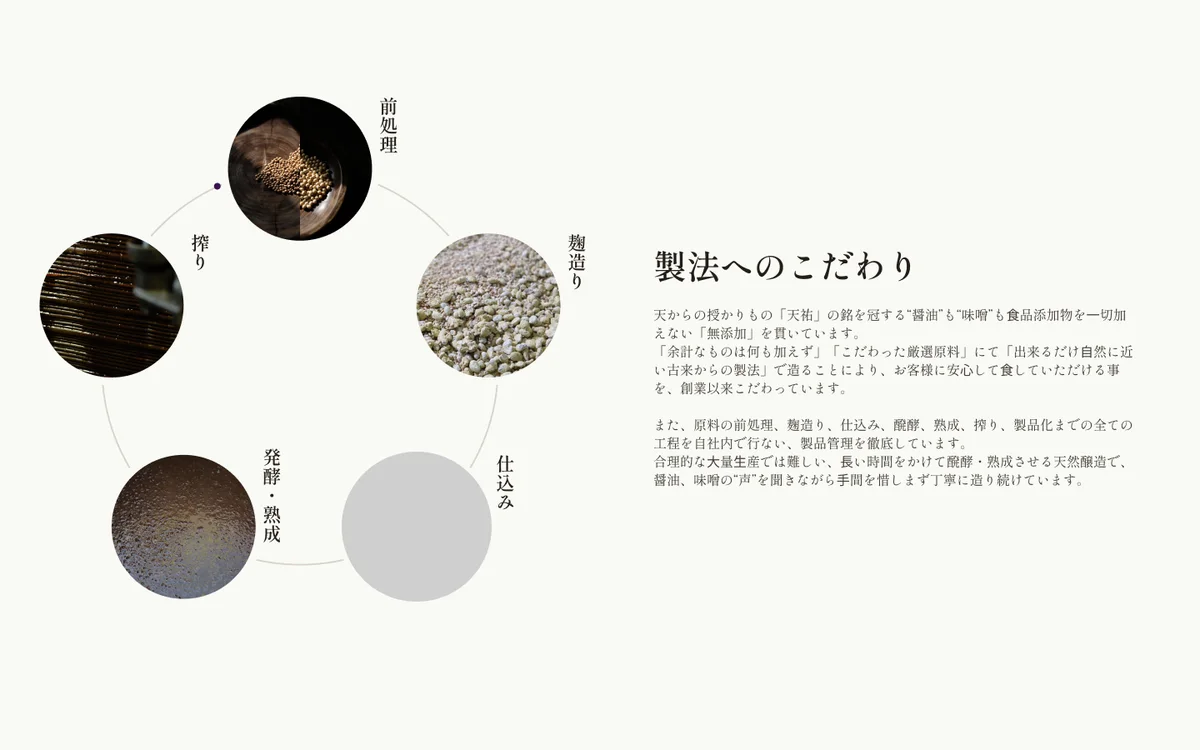
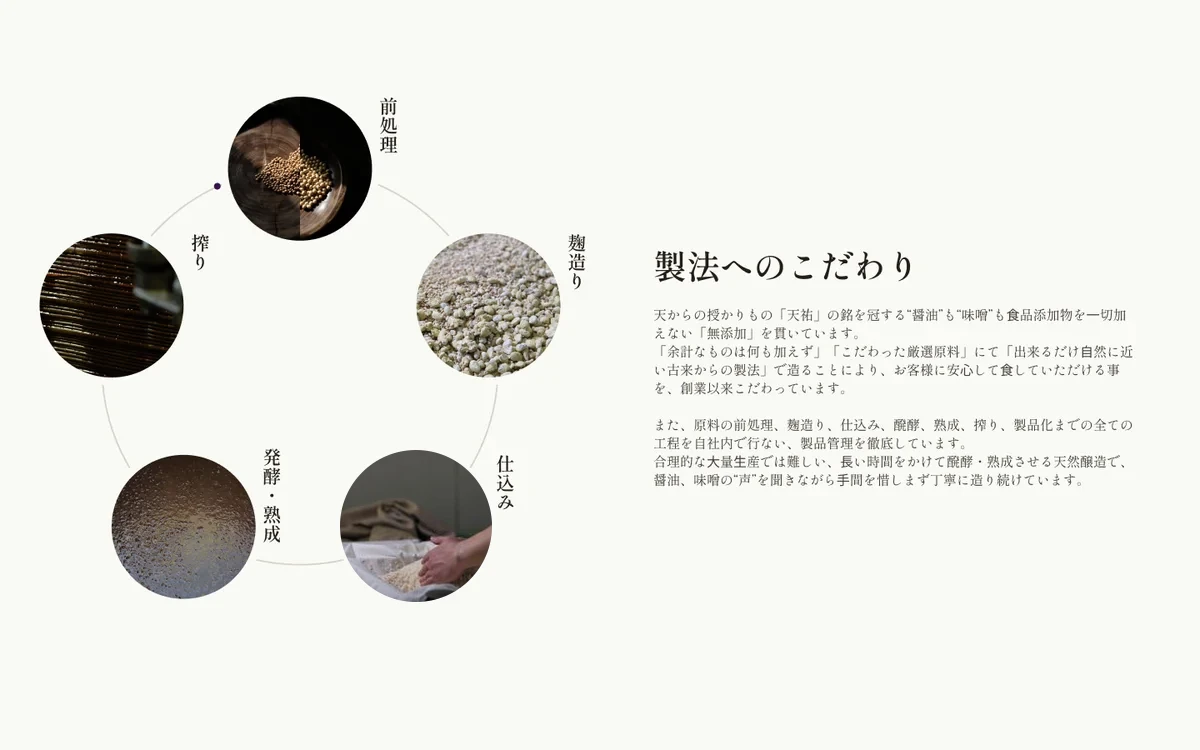
feat(nakahatsu-sy): replace gray placeholders with person-free client photos, max-width figure per Figma

Changed region(s): [[0.2775, 0.5827, 0.4317, 0.828]]

diff --git a/src/components/work/DesignSystemFigure.tsx b/src/components/work/DesignSystemFigure.tsx
@@ -73,9 +73,13 @@ export default function DesignSystemFigure({ f, label }: { f: DesignSystemData; 
                 </li>
               ))}
             </ul>
-            <div className="flex flex-col items-center gap-1.5" aria-hidden="true">
-              <span className="block h-[102px] w-32 border border-dashed border-ink/60 bg-white" />
-              <span className="block h-2 w-32 border-x border-b border-ink/60" />
+            {/* 本文の最大幅の図（Figma 586:861 の型）: 画面（1440x1024 の比率）を実線の枠で、内側の 1280 幅を点線のガイドで示し、
+                ガイドの幅に合わせた目盛りの下に「1280」。地は透明（図の面の色が見える）。 */}
+            <div className="flex w-36 flex-col items-center gap-1" aria-hidden="true">
+              <span className="relative block h-[102px] w-full rounded-[2px] border-2 border-[#212629]">
+                <span className="absolute inset-y-0 left-[6px] right-[6px] border-x border-dashed border-[#21272a]" />
+              </span>
+              <span className="block h-2 w-32 border-x border-b border-[#6b665c]" />
               <span className="text-body-sm text-ink-tertiary">{f.maxWidth}</span>
             </div>
           </div>

diff --git a/docs/session-2026-10-28-nakahatsu-sy-handoff.md b/docs/session-2026-10-28-nakahatsu-sy-handoff.md
@@ -4,6 +4,7 @@
 - **見出しの並び（11-04 午後）**: nakahatsu-sy の節の見出し（概要・プロセス・クレジット）を、他の作品ページと同じく本文の上に縦並びに変更（サイト・Figma v2 の JP/EN PC。SP は元から縦）。左の 280px の空き列と 312px の字下げは外した。
 - **見出しの大きさ（11-04 午後）**: sy の節の見出しが小さかった（補助ラベルの書式）。他の作品と同じ h2 text-title-lg（32/26px）、手順の見出しは h3 text-title（24/21px）に変更。Figma v2 の JP/EN PC/SP も同じ値に。
 - **サイドバーの文字（11-04 午後）**: 見出し 15px→18px、小見出し 13px→15px、幅 200→224px（`WorkSidebar` / `WorkShell`、全作品ページ共通）。Figma のサイドバー（JP 690:767 / EN 690:775）も 224px・18px・Medium に。
+- **灰色の置き換え（11-04 午後）**: 10/12 の左と仕込みの丸（灰色）に、人物が写らない先方の写真（麹のお米／仕込みの手とお米の切り出し）を入れた。サイト・Figma 36枚・注記を更新。仕込みの手は先方の写真なので、公開前の確認対象。最大幅の図は Figma 586:861 の型に合わせた。**未決**: 3ページ（/work/nakahatsu 詳細版・/work/nakahatsu-sy・/work/nakahatsu-story）の整理。SY 版を最新とし、詳細版は今も正しい内容だけ引き継ぐ（全統合ではない）。
 - **決定**: JP のページでも、メタ情報の英語ラベル（Client / Role / Timeline / My Skills / Type / Deliverables）は英語のまま（日本語にしない）。ukiyoe の JP 見出し「リサーチと発見」「技術面のポイント」は OK。sy の Figma のサイドバー用フレーム（幅 1280）はこのままで OK。
 - **サイドバー**: 切り替えに transition を追加（`WorkSidebar.tsx`。濃さと 3px の横移動を 300ms、小見出しの開閉、太さは固定、reduced-motion では動かさない）。
 - **ローディング動画**: 2560x1440 に撮り直し済み（11-04、`386823d`）。

diff --git a/lessons.md b/lessons.md
@@ -957,3 +957,6 @@ headless フラグを疑う。
 - 事象: ukiyoe と中初 sy でサイドバーの幅・文字サイズ・親要素の設定が全く違い、河野さんから「共通化しないといけない」と指摘された。前後の図は画像1枚に点線の矢印を焼き込み、デザインシステムの図は文字入りの画像のままだった。図のタイトルが13pxで小さすぎた。
 - 対処: `WorkShell`（本文の枠）、`WorkSidebar`、`BeforeAfterPair` + `LineArrow`（実線）、`DesignSystemFigure`、`ControlledVideo`（停止ボタンつき）を作り、2ページに適用。ルールは CLAUDE.md「作品ページの共通部品」。
 - 気づき: 同じ種類の部品を2つ目のページに作った時点で共通化する。「Figma は白」「サイドバー」のような見た目の約束は、コードのクラスではなく部品に持たせる。画像に文字・矢印を焼き込むと、正しいデータ情報にならない（読み上げ・拡大・差し替えに弱い）。
+
+## 2026-11-04 Figma に WebP をアップロードすると描画が真っ白になる
+- upload_assets で WebP を POST すると、塗り（imageHash）は入るのにスクリーンショットが真っ白になった。PNG に変換して送り直したら描画された。Figma へ送る画像は PNG にする（サイトの WebP から変換する）。
